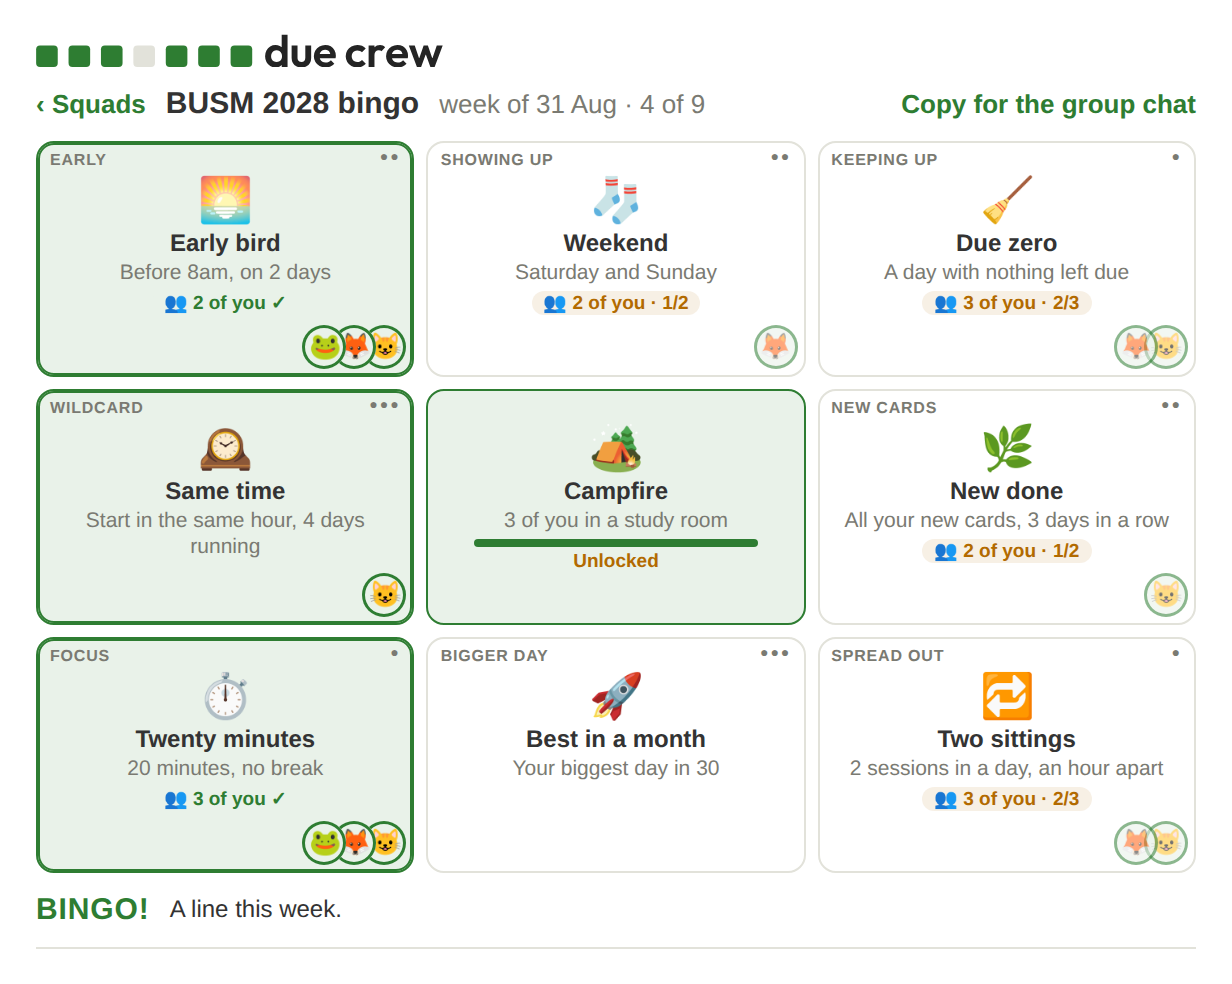
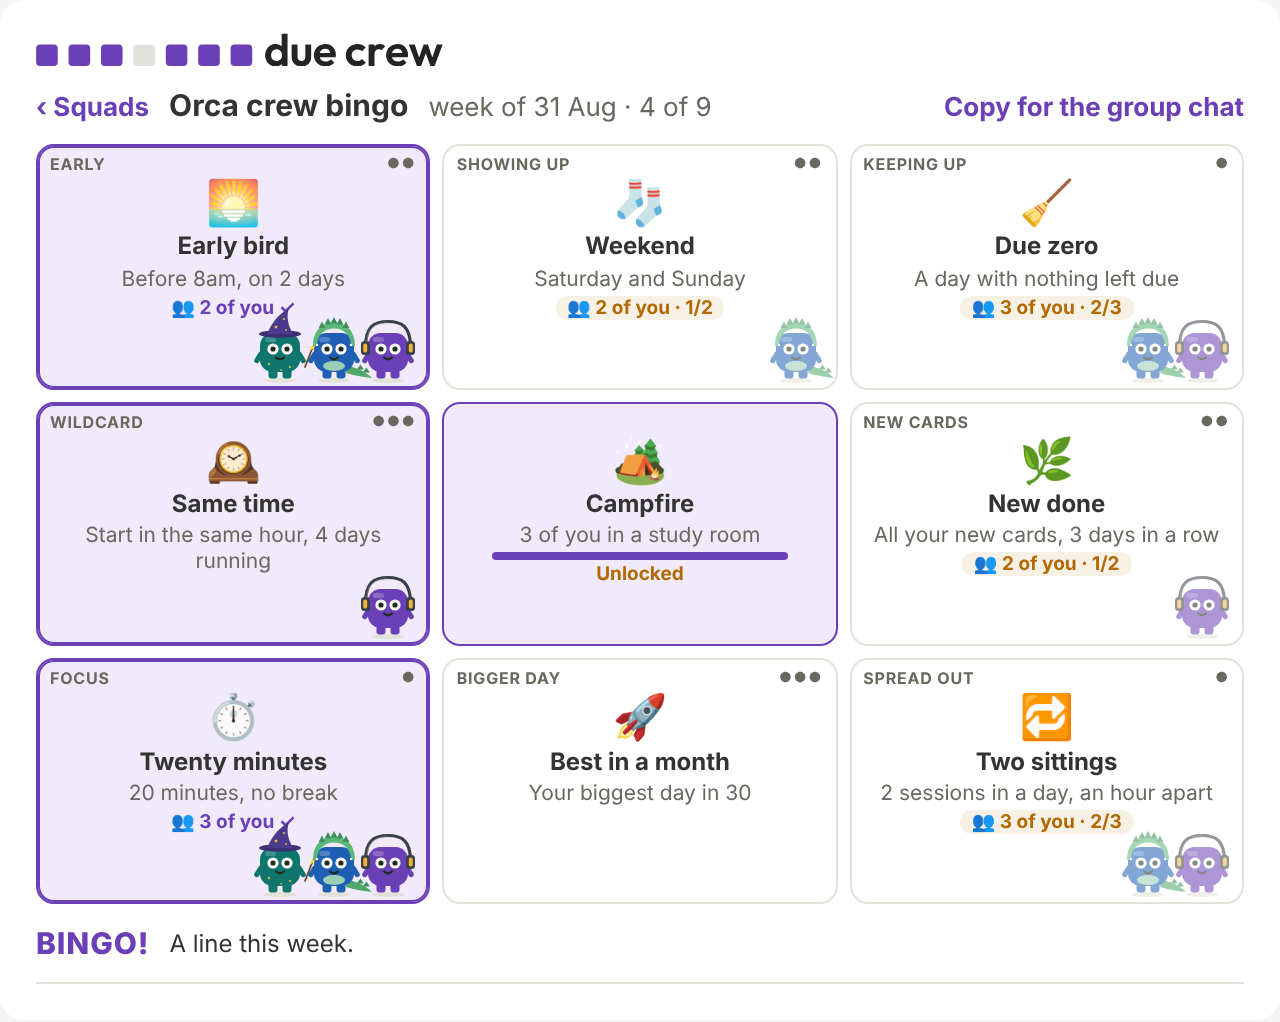
The README with its voice back; pictures in different colours; bingo with Pips
A line or two and the picture a part. Magic search blue, plans amber, Insights
teal, bingo purple, Party rose. The bingo picture is a new render: the
preview's squad, each stamp its person's Pip.

Claude-Session: https://claude.ai/code/session_01T9RYS9itCJ3KTL7nGa5aCe

diff --git a/tools/readme_shots.js b/tools/readme_shots.js
@@ -18,6 +18,14 @@ const only = process.argv[2] ? path.resolve(process.argv[2]) : img;   // another
   await (await p.$('#shot')).screenshot({ path: path.join(only, 'magic.png') });
   await p.close();
 
+  p = await page(760, 1000);
+  await p.goto('file://' + path.join(here, 'readme_bingo.html'));
+  await p.waitForTimeout(700);
+  await (await p.$('#shot')).screenshot({ path: path.join(only, 'bingo.png') });
+  console.log('bingo.png');
+  await p.close();
+  const tokens = JSON.parse(require('fs').readFileSync(path.join(here, 'readme_tokens.json'), 'utf8'));
+
   p = await page(760, 900);
   await p.goto('file://' + path.join(here, 'preview.html'));
   await p.waitForTimeout(700);
@@ -34,15 +42,18 @@ const only = process.argv[2] ? path.resolve(process.argv[2]) : img;   // another
     const h = [...document.querySelectorAll('h3')].find((x) => x.textContent.startsWith(s));
     return h ? h.nextElementSibling : null;
   }, start);
-  for (const [start, sel, png] of [
-    ['3.8.0: You › Insights, the map opened on Cardio', '.du', 'insights.png'],
-    ['3.9.5: You › Pip Party, three picked', '.du', 'party.png'],
-    ["3.8.2: Pip's closet, in the board", null, 'closet.png'],
+  for (const [start, sel, png, accent] of [
+    ['3.8.0: You › Insights, the map opened on Cardio', '.du', 'insights.png', 'teal'],
+    ['3.9.5: You › Pip Party, three picked', '.du', 'party.png', 'rose'],
+    ["3.8.2: Pip's closet, in the board", null, 'closet.png', null],
   ]) {
     const box = (await section(start)).asElement();
     if (!box) { console.log('no section:', start); process.exitCode = 1; continue; }
     const el = sel ? await box.$(sel) : box;
+    // a colour a picture (people pick their own): that accent's tokens on the board while it's taken
+    const tint = accent ? await p.addStyleTag({ content: '#due-crew, #due-crew .du { ' + tokens[accent] + ' }' }) : null;
     await (el || box).screenshot({ path: path.join(only, png) });
+    if (tint) await tint.evaluate((n) => n.parentNode.removeChild(n));
     console.log(png);
   }
   // the dance floor: its frame opened wide (it folds where it would cover the board), the corner cut out

diff --git a/tools/readme_shots.py b/tools/readme_shots.py
@@ -17,9 +17,33 @@ from due_crew.magic_html import page_html  # noqa: E402
 
 face, _ops, _closed = T.window()
 face.on("type", {"text": "heart failure"})
-html = page_html(face.view(), {"theme": "light", "accent": "green"}, preview=True)
+html = page_html(face.view(), {"theme": "light", "accent": "blue"}, preview=True)  # a colour a picture: people pick their own
 out = os.path.join(REPO, "tools", "readme_magic.html")
 with open(out, "w", encoding="utf-8") as f:
     f.write("<!doctype html><meta charset=utf-8><body style='margin:0;background:#f5f5f5'>"
             "<div id=shot style='width:640px;margin:0 auto;background:#fff'>" + html + "</div></body>")
 print(out)
+
+# the squad's bingo card with a line, each stamp its person's Pip (the preview's card and week)
+import json  # noqa: E402
+import runpy  # noqa: E402
+
+P = runpy.run_path(os.path.join(REPO, "tools", "preview.py"), run_name="readme")
+board = P["board"]
+PEOPLE = {"sam": {"you": True, "name": "Sammy"},
+          "dre": {"name": "Dre", "accent": "blue", "look": ["dino"]},
+          "maya": {"name": "Maya", "accent": "teal", "look": ["wizard"]},
+          "theo": {"name": "Theo", "accent": "amber", "look": ["sprout", "shades"]},
+          "noah": {"name": "Noah", "accent": "rose", "look": ["partyhat", "scarf"]}}
+ME = {"theme": "light", "accent": "purple", "sev_look": ["headphones"], "sev_closet": {"headphones": "2026-01-01"}}
+card = board.bingo_html(P["_bv"](P["_LINE"]), ME, people=PEOPLE)
+out = os.path.join(REPO, "tools", "readme_bingo.html")
+with open(out, "w", encoding="utf-8") as f:
+    f.write("<!doctype html><meta charset=utf-8><body style='margin:0;background:#f5f5f5'><center>"
+            "<div id=shot style='width:640px;margin:0 auto'>" + card + "</div></center></body>")
+print(out)
+
+# the accents' tokens, for the pictures cut from the preview (readme_shots.js sets them on the board)
+tokens = {a: board._token_block(board.palette("light", a)) for a in board.ACCENTS}
+with open(os.path.join(REPO, "tools", "readme_tokens.json"), "w", encoding="utf-8") as f:
+    json.dump(tokens, f)

diff --git a/tools/readme_images.py b/tools/readme_images.py
@@ -59,7 +59,8 @@ print("wrote", out)
 card = P["PLAN_CARD"]
 today = next((d["day"] for d in card.get("week") or [] if d.get("today")), (card.get("week") or [{}])[0].get("day"))
 plans = dict(P["PLANS"], cards=[dict(card, focus=today)])
-html = board.render(DATA, ME, P["now_ts"] - 30, due=P["_DV"], plans=plans, you=P["_YOU"]("plans", plans=plans))
+html = board.render(DATA, dict(ME, accent="amber"), P["now_ts"] - 30, due=P["_DV"], plans=plans,
+                    you=P["_YOU"]("plans", plans=plans))  # a colour a picture: people pick their own
 page = page.replace(page[page.index('<div id="shot">'):page.index("</center>")], f'<div id="shot">{html}</div>')
 out = os.path.join(HERE, "readme_plans.html")
 with open(out, "w", encoding="utf-8") as f:

diff --git a/README.md b/README.md
@@ -5,124 +5,88 @@
 
 Your friends' studying next to yours, on Anki's Decks screen.
 
-<img alt="The Due Crew board on the Decks screen, your day folded above it" src="https://raw.githubusercontent.com/sammyc2472/due-crew/main/docs/images/board.png?v=11" width="600">
+<img alt="The Due Crew board on the Decks screen, your day folded above it" src="https://raw.githubusercontent.com/sammyc2472/due-crew/main/docs/images/board.png?v=12" width="600">
 
-Studying for a big exam is more fun with friends! Due Crew is an Anki
-add-on. It shows your friends under your deck list: who studied today,
-who's studying now, and how much.
+Studying for a big exam is more fun with friends! Due Crew puts yours
+right under your decks. Nobody's alone at 11pm with 400 cards left.
 
-You only see people you've added, and they only see you if they add you
-back. Your cards never leave your computer.
+Friends only. Your cards never leave your computer.
 
-## Get started
+## Get it
 
-1. In Anki: Tools → Add-ons → Get Add-ons. The code is **2035408484**.
-   Restart Anki. (Needs Anki 2.1.55 or newer.)
-2. Click **Start with your email** on the Decks screen. We email you a
-   code. No password.
-3. Paste a friend's invite, or a class, squad or plan code. Or send
-   your invite to a friend.
+In Anki: Tools → Add-ons → Get Add-ons, code **2035408484**. Restart,
+sign in with your email, send a friend your invite. Two minutes, no
+password.
 
 ## Magic search
 
-Type what you want to study: "heart failure", "due this week", "30
-minutes of renal". You can paste question IDs from a practice block
-too. It finds the cards. Then you can study them now, put them on a
-day, make a filtered deck, or unsuspend them.
+Type "30 minutes of renal". Get 30 minutes of renal.
 
-<img alt="Magic search: heart failure, 27 cards, Study now" src="https://raw.githubusercontent.com/sammyc2472/due-crew/main/docs/images/magic.png?v=1" width="600">
+<img alt="Magic search: heart failure, 27 cards, Study now" src="https://raw.githubusercontent.com/sammyc2472/due-crew/main/docs/images/magic.png?v=2" width="600">
 
 ## Study plans
 
-A plan is a study calendar for a class or a group of friends. Pick
-chapters from a deck, set the pace, add the exam date, and share the
-code. Everyone who follows it gets that day's cards each morning.
+One person makes the calendar. Everyone wakes up to that day's cards.
+Fall behind and it waits for you.
 
-Make one in Anki (Tools → Due Crew → Plans → New plan…) or at
-duecrew.com.
+<img alt="You › Plans: a plan's week, today's assignments open" src="https://raw.githubusercontent.com/sammyc2472/due-crew/main/docs/images/plans.png?v=10" width="600">
 
-<img alt="You › Plans: a plan's week, today's assignments open" src="https://raw.githubusercontent.com/sammyc2472/due-crew/main/docs/images/plans.png?v=9" width="600">
+## Insights
 
-- **If you fall behind,** the plan waits for you. Study the days you
-  missed or skip them.
-- **Go at your own pace** if you'd rather not follow the calendar.
-- **Cram before class or a quiz:** one click puts those cards in a
-  deck.
-- **If you write the plan,** you can add co-authors, leave notes for
-  followers, and tag their cards by lecture.
+What you know, what you don't, and how bad next week is going to be.
 
-## Your day
+<img alt="You › Insights: what you know by topic, and your reviews for the weeks ahead" src="https://raw.githubusercontent.com/sammyc2472/due-crew/main/docs/images/insights.png?v=2" width="600">
 
-Above your friends is your own day.
+## Cheers
 
-- **Today:** what's due, what your plan opens, and your to-dos.
-- **Upcoming:** the next two weeks.
-- **Fifteen?** A button in Anki's top bar. It starts a fifteen-minute
-  timer.
-- **Insights:** how a deck is going. Your reviews for the next six
-  weeks, your leeches, and what you know by topic. Only you see it.
-
-<img alt="You › Insights: what you know by topic, and your reviews for the weeks ahead" src="https://raw.githubusercontent.com/sammyc2472/due-crew/main/docs/images/insights.png?v=1" width="600">
-
-## Your crew
-
-**Cheers.** Tap 🎉 Cheer next to a friend's name. A little
-celebration plays on their screen with your note. You can also send a drawing.
+Your friend hit 700 reviews. Throw confetti at their screen.
 
 <img alt="A cheer landing" src="https://raw.githubusercontent.com/sammyc2472/due-crew/main/docs/images/flurry.png" width="600">
 
-**Study rooms.** Study in 25-minute rounds with friends. The timer is
-in Anki's top bar and you all take breaks together.
+## Study rooms
+
+25 minutes on, five off, together. The timer lives in Anki's top bar.
 
 <img alt="A study room in Anki's top bar" src="https://raw.githubusercontent.com/sammyc2472/due-crew/main/docs/images/room.png?v=2" width="420">
 
-**Study soundtrack.** Pick the song you're studying to. Your friends
-see it, and you see theirs. A song stays up for three days.
+## Study soundtrack
+
+Put on the song you're studying to. Your crew dances to theirs.
 
 <img alt="The dance floor: your Pip at the booth, your crew's Pips with their songs" src="https://raw.githubusercontent.com/sammyc2472/due-crew/main/docs/images/dance.png?v=1" width="420">
 
-- **Hooks.** When a card finally clicks, write down why. You'll see it
-  the next time you miss that card. So will a friend who misses the
-  same card.
-- **Good-luck cards.** Leave a note the night before a friend's exam.
-- **Profiles.** A friend's last six months of studying.
-- You can also set a status, your exam date and days away, or hide
-  your numbers and just show that you studied.
+## Squad bingo
 
-## Squads and bingo
+A new card for your class every Monday. Most squares take a few of
+you, so somebody has to text the group chat.
 
-A squad is a group with a code, like a class or a study group. Every
-Monday the squad gets a new bingo card. The squares are things like
-"start early" or "finish everything due". Most take more than one of
-you. Three in a row is bingo.
-
-<img alt="A squad's bingo card with a line" src="https://raw.githubusercontent.com/sammyc2472/due-crew/main/docs/images/bingo.png?v=2" width="600">
+<img alt="A squad's bingo card with a line" src="https://raw.githubusercontent.com/sammyc2472/due-crew/main/docs/images/bingo.png?v=3" width="600">
 
 ## Pip
 
-Pip is the little square from the logo. It earns hats and costumes as
-you study, and your friends see what it's wearing. You can turn Pip
-off in Settings.
+The little square from the logo. Study, and it earns hats.
 
 <img alt="Pip's closet: hats, glasses and costumes earned by showing up" src="https://raw.githubusercontent.com/sammyc2472/due-crew/main/docs/images/closet.png?v=1" width="600">
 
 ## Pip Party
 
-Party games made from your own cards: Trivia, Imposter and Links. It's
-in beta. Pick the topics in You › Party and press Host. Anki opens a
-window for the TV, and everyone joins on their phone at duecrew.com.
+Trivia night, but the questions are your own cards. Phones in hand,
+Anki on the TV. (Beta.)
 
-<img alt="You › Party: three games, and a map of your deck to pick the night's topics from" src="https://raw.githubusercontent.com/sammyc2472/due-crew/main/docs/images/party.png?v=1" width="600">
+<img alt="You › Party: three games, and a map of your deck to pick the night's topics from" src="https://raw.githubusercontent.com/sammyc2472/due-crew/main/docs/images/party.png?v=2" width="600">
 
-## Also
+## And more
 
-- **Why isn't this card showing?** Right-click a card in Browse and it
-  tells you: suspended, buried, or past today's limit.
-- **Open a tag's cards.** Right-click a tag in Browse to unsuspend its
-  cards.
-- **Scrapbook.** The cheers, drawings and notes your friends sent you,
-  by month.
-- **Share.** Make a picture of your day, week or year to post.
+- **Hooks.** Write down what made a card click. It shows up the next
+  time you miss it, and for a friend who misses it too.
+- **Good-luck cards** the night before a friend's exam.
+- **Today.** What's due, your plan and your to-dos in one list.
+- **Fifteen?** One button, fifteen minutes. Good for starting.
+- **Why isn't this card showing?** Right-click it in Browse and find
+  out.
+- **Scrapbook.** Everything your friends sent you, kept by month.
+- **Pick your colour.** Six of them, and every picture here is a
+  different one.
 
 ## Privacy
 

diff --git a/docs/history.md b/docs/history.md
@@ -5665,4 +5665,19 @@ every release that changes how something works.
   language. simpler still"). Short sentences, everyday words, a bullet a
   thing; Your day is four bullets; Privacy says the same things as a
   list. Same order, same ten pictures.
+- 3.9.12, the README with its voice back, and the pictures in colour (SC,
+  13 Nov: "now it reads as without personality. you should assume people
+  understand when they see the image... we just need them to see
+  something cool and hten download. also, the images should have
+  different user choice colors... redo the bingo without BUSm and make
+  sure it's the pips not emojis"). A heading, a line or two, the picture:
+  Get it, Magic search, Study plans, Insights, Cheers, Study rooms, Study
+  soundtrack, Squad bingo, Pip, Pip Party, And more; about 560 words
+  with Privacy. The pictures wear different accents: the board green,
+  Magic search blue, plans amber, Insights teal, bingo purple, Party
+  rose (`readme_shots.py` renders Magic search and bingo in theirs and
+  writes each accent's tokens, which `readme_shots.js` sets on the
+  preview's board for a crop; `readme_images.py` renders plans amber).
+  bingo.png is new: the preview's card and squad ("Orca crew"), each
+  stamp its person's Pip (`bingo_html(..., people=)`), no school's name.
 
